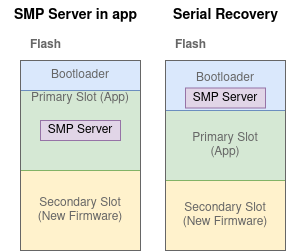
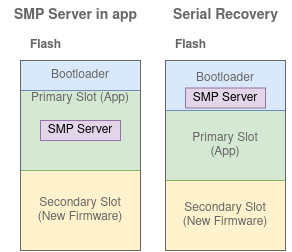
Fixed image colors. Added word.

diff --git a/bootloader_samples/serial_recovery/README.md b/bootloader_samples/serial_recovery/README.md
@@ -32,7 +32,7 @@ Both these are no longer relevant for Serial Recovery:
 
 ## Enter Serial Recovery Mode
 Usually the bootloader use as little time as possible to boot the application.  
-If we want to do DFU, we need some time. Here are two ways to make sure that we got time for DFU.
+If we want to do DFU, we need some time. Here are two ways to make sure that we got enough time for DFU.
 
 ### Serial Recovery on Button
 The chip will enter Serial Recovery mode instead of the application if a button is held during boot.
